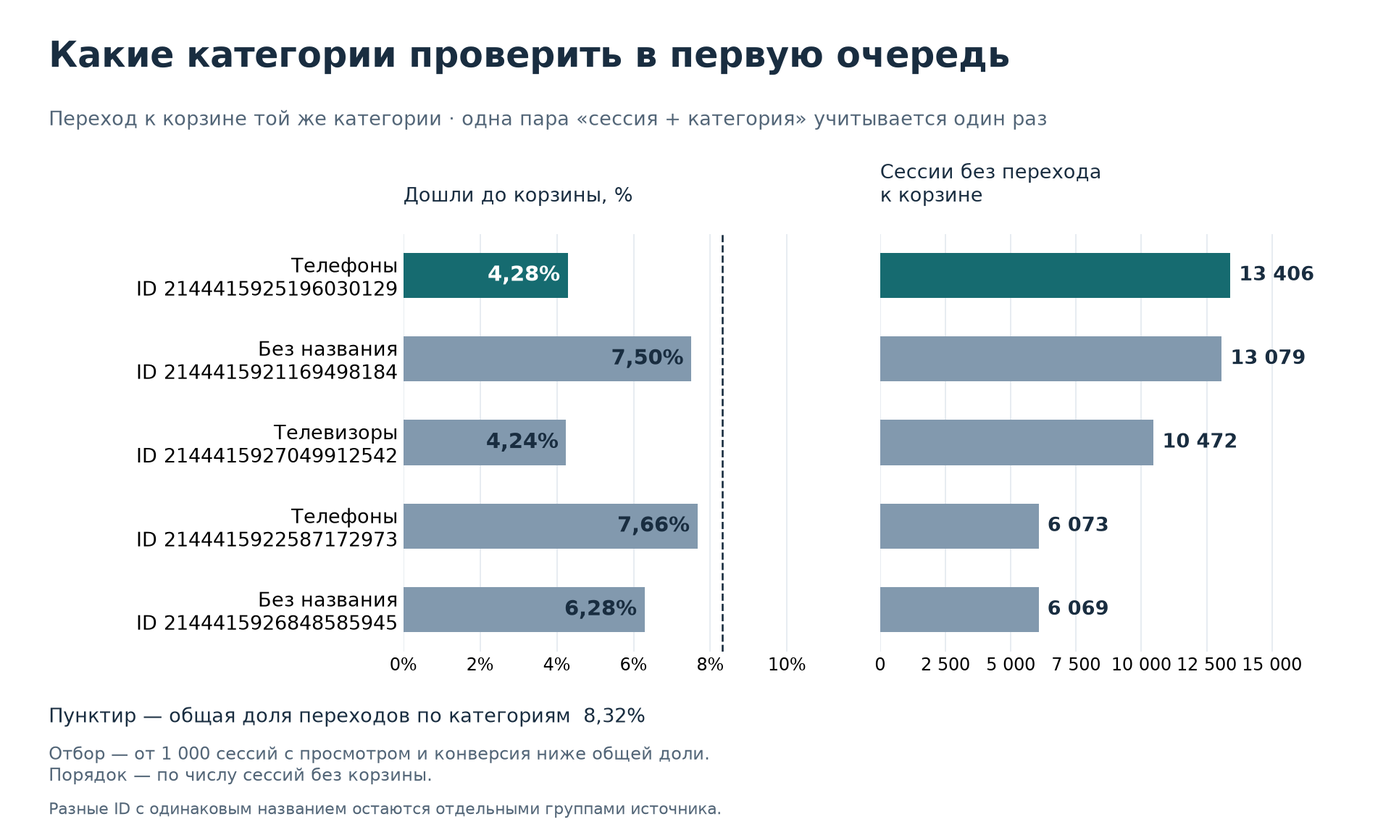
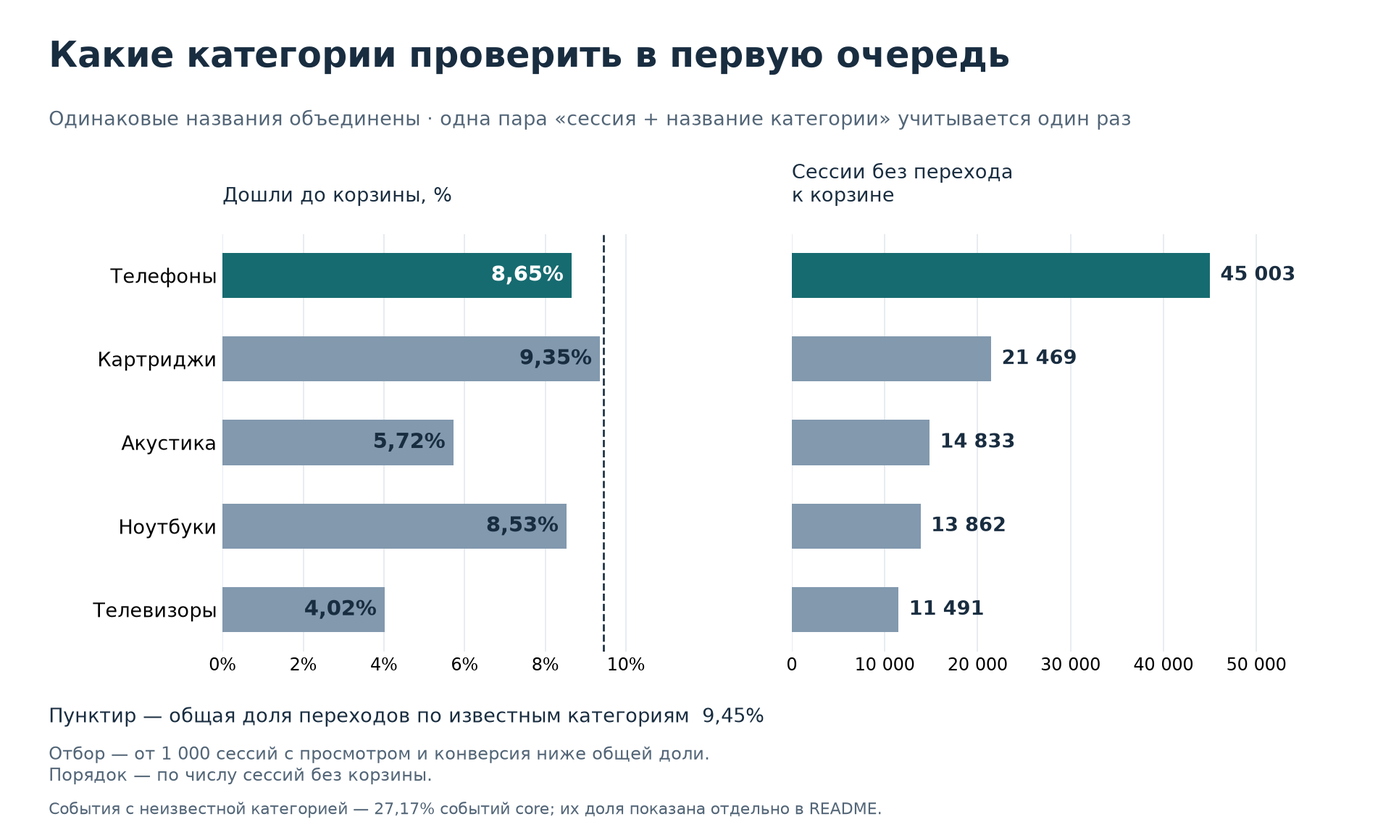
Compare named categories and report missing-name coverage

diff --git a/scripts/plot_results.py b/scripts/plot_results.py
@@ -66,7 +66,7 @@ def plot_funnel(summary):
     plt.close(fig)
 
 
-def plot_categories(categories):
+def plot_categories(categories, coverage):
     total_views = sum(row["view_sessions"] for row in categories)
     total_carts = sum(row["cart_sessions"] for row in categories)
     baseline = Decimal(total_carts) / Decimal(total_views) if total_views else Decimal(0)
@@ -75,7 +75,7 @@ def plot_categories(categories):
                   if row["view_sessions"] >= MIN_VIEW_SESSIONS
                   and row["cart_sessions"] * total_views
                   < total_carts * row["view_sessions"]]
-    candidates.sort(key=lambda row: (-row["sessions_without_cart"], row["category_id"]))
+    candidates.sort(key=lambda row: (-row["sessions_without_cart"], row["category_code"]))
     candidates = candidates[:5]
     if not candidates:
         raise ValueError("Нет категорий, соответствующих правилу отбора для графика")
@@ -83,9 +83,11 @@ def plot_categories(categories):
     names = {
         "electronics.telephone": "Телефоны",
         "electronics.video.tv": "Телевизоры",
+        "stationery.cartrige": "Картриджи",
+        "electronics.audio.acoustic": "Акустика",
+        "computers.notebook": "Ноутбуки",
     }
-    labels = [names.get(row["category_code"], row["category_code"] or "Без названия")
-              + f"\nID {row['category_id']}" for row in candidates]
+    labels = [names.get(row["category_code"], row["category_code"]) for row in candidates]
     rates = [float(row["view_to_cart_conversion"]) * 100 for row in candidates]
     counts = [row["sessions_without_cart"] for row in candidates]
     positions = list(range(len(candidates)))
@@ -94,9 +96,9 @@ def plot_categories(categories):
     fig, (rate_axis, count_axis) = plt.subplots(
         1, 2, figsize=(12, 7.2), sharey=True, gridspec_kw={"width_ratios": [1, 1.15]}
     )
-    fig.subplots_adjust(left=0.29, right=0.96, top=0.72, bottom=0.22, wspace=0.19)
+    fig.subplots_adjust(left=0.16, right=0.96, top=0.72, bottom=0.22, wspace=0.19)
     fig.text(0.035, 0.92, "Какие категории проверить в первую очередь", fontsize=22, weight="bold", color=TEXT)
-    fig.text(0.035, 0.85, "Переход к корзине той же категории · одна пара «сессия + категория» учитывается один раз",
+    fig.text(0.035, 0.85, "Одинаковые названия объединены · одна пара «сессия + название категории» учитывается один раз",
              fontsize=12, color=MUTED)
 
     rate_axis.barh(positions, rates, color=colors, height=0.54)
@@ -128,12 +130,14 @@ def plot_categories(categories):
                         format_count(counts[position]),
                         va="center", fontsize=12, weight="bold", color=TEXT)
 
-    fig.text(0.035, 0.135, "Пунктир — общая доля переходов по категориям  " + format_percent(baseline),
+    fig.text(0.035, 0.135, "Пунктир — общая доля переходов по известным категориям  " + format_percent(baseline),
              fontsize=12, color=TEXT)
     fig.text(0.035, 0.065,
              f"Отбор — от {format_count(MIN_VIEW_SESSIONS)} сессий с просмотром и конверсия ниже общей доли.\n"
              "Порядок — по числу сессий без корзины.", fontsize=11, color=MUTED)
-    fig.text(0.035, 0.025, "Разные ID с одинаковым названием остаются отдельными группами источника.",
+    fig.text(0.035, 0.025,
+             "События с неизвестной категорией — " + format_percent(coverage["unnamed_category_share"])
+             + " событий core; их доля показана отдельно в README.",
              fontsize=10, color=MUTED)
     fig.savefig(OUTPUT_DIR / "category-conversion.png", dpi=160, facecolor="white")
     plt.close(fig)
@@ -146,11 +150,13 @@ def create_charts(connection):
         summary = cursor.fetchone()
         cursor.execute("SELECT * FROM mart.category_conversion")
         categories = cursor.fetchall()
+        cursor.execute("SELECT * FROM mart.category_data_quality")
+        coverage = cursor.fetchone()
     if not summary or not summary["view_sessions"] or not categories:
         raise ValueError("Для графиков нужны заполненные витрины магазина и категорий")
     OUTPUT_DIR.mkdir(parents=True, exist_ok=True)
     plt.rcParams.update({"font.family": "DejaVu Sans", "text.color": TEXT})
-    plot_categories(categories)
+    plot_categories(categories, coverage)
     plot_funnel(summary)
 
 

diff --git a/README.md b/README.md
@@ -30,18 +30,20 @@
 
 ## Какие категории проверить первыми
 
-![Пять категорий для дальнейшей проверки. Слева конверсия в корзину, справа число сессий без перехода. Первая группа телефонов — 4,28% и 13 406 сессий без корзины.](docs/images/category-conversion.png)
+![Пять известных категорий для дальнейшей проверки. Телефоны — 8,65%, картриджи — 9,35%, акустика — 5,72%, ноутбуки — 8,53%, телевизоры — 4,02%.](docs/images/category-conversion.png)
 
-На графике показаны крупные группы с конверсией ниже общей доли переходов
-по категориям — **8,32%**. Выше расположены группы с большим числом сессий
-без последующей корзины.
+Сравниваются **107 категорий с заполненными названиями**. Все технические ID
+с одинаковым названием объединены. На графике показаны крупные категории
+с конверсией ниже общей доли переходов по известным категориям — **9,45%**.
+Выше расположены категории с большим числом сессий без последующей корзины.
 
-**Первый кандидат — группа телефонов с ID `2144415925196030129`.**
-Из **14 006** сессий с просмотром этой категории в **600** появилась
-последующая корзина той же категории. Конверсия — **4,28%**,
-сессий без такого перехода — **13 406**.
+**Первый кандидат по объёму сессий без корзины — телефоны.**
+Из **49 264** сессий с просмотром этой категории в **4 261** появилась
+последующая корзина той же категории. Конверсия — **8,65%**,
+сессий без такого перехода — **45 003**. Среди пяти показанных категорий
+самая низкая конверсия у телевизоров — **4,02%**, при 11 972 сессиях с просмотром.
 
-**Следующее действие команды — проверить состав товаров этой группы
+**Следующее действие команды — проверить состав категории телефонов
 и полноту регистрации событий корзины.** Затем можно проверять гипотезы
 о цене, наличии и карточках товаров. Для проверки наличия и состояния
 карточек понадобятся дополнительные данные.
@@ -50,40 +52,52 @@
 разница задаёт направление проверки. Чтобы установить её причины и оценить
 эффект изменений, нужны дополнительные данные и отдельное исследование.
 
+## Покрытие данных
+
+| Название категории в событии | События после отбора сессий | Доля |
+|---|---:|---:|
+| Заполнено | 587 072 | 72,83% |
+| Отсутствует | 219 006 | 27,17% |
+
+Сравнение категорий описывает события с заполненным названием.
+События с неизвестной категорией включены в общую воронку магазина.
+Для восстановления их названий нужен дополнительный справочник товаров
+или категорий. Проверка по другим событиям тех же товаров дала ноль
+восстановленных названий.
+
 <details>
 <summary>Точные значения, правило отбора и ограничения сравнения</summary>
 
 Полный расчёт повторён **2026-11-19** на 885 129 событиях за период
 с 2020-09-24 по 2021-02-28. После отбора сессий осталось 806 078 событий.
-В 715 категориях получилась 493 751 пара «сессия + категория» с просмотром.
-В 41 088 парах после просмотра появилась корзина этой категории — **8,32%**.
+В 107 известных категориях получилось 344 777 пар «сессия + название категории»
+с просмотром. В 32 571 паре после просмотра появилась корзина этой категории — **9,45%**.
 
 Для списка кандидатов выбраны категории с **не менее 1000 сессий
-с просмотром** и конверсией **ниже 8,32%**. Они отсортированы по числу сессий
+с просмотром** и конверсией **ниже 9,45%**. Они отсортированы по числу сессий
 без последующей корзины. Порог 1000 — выбранный ориентир для рассмотрения
 крупных групп; статистическая проверка различий остаётся отдельной задачей.
 
-| Категория из источника | category_id | Сессии с просмотром | Дошли до корзины | Без перехода к корзине | Конверсия |
-|---|---|---:|---:|---:|---:|
-| `electronics.telephone` | `2144415925196030129` | 14 006 | 600 | 13 406 | 4,28% |
-| Название отсутствует | `2144415921169498184` | 14 140 | 1 061 | 13 079 | 7,50% |
-| `electronics.video.tv` | `2144415927049912542` | 10 936 | 464 | 10 472 | 4,24% |
-| `electronics.telephone` | `2144415922587172973` | 6 577 | 504 | 6 073 | 7,66% |
-| Название отсутствует | `2144415926848585945` | 6 476 | 407 | 6 069 | 6,28% |
-
-Категория видеокарт `2144415922427789416` даёт больше всего сессий без корзины
-в абсолютных числах — 33 950. При этом её конверсия составляет 20,31%.
-Поэтому при выборе направления анализа учитываются и объём, и доля переходов.
+| Категория | Сессии с просмотром | Дошли до корзины | Без перехода к корзине | Конверсия |
+|---|---:|---:|---:|---:|
+| Телефоны | 49 264 | 4 261 | 45 003 | 8,65% |
+| Картриджи | 23 684 | 2 215 | 21 469 | 9,35% |
+| Акустика | 15 733 | 900 | 14 833 | 5,72% |
+| Ноутбуки | 15 154 | 1 292 | 13 862 | 8,53% |
+| Телевизоры | 11 972 | 481 | 11 491 | 4,02% |
 
 ### Как считается переход по категории
 
-- Единица расчёта — пара `session_id + category_id` с хотя бы одним просмотром.
+- Единица расчёта — пара `session_id + category_code` с хотя бы одним просмотром.
 - Берётся первый просмотр и первая корзина **строго позже** этого просмотра
   в той же сессии и той же категории. Товары могут различаться.
 - Повторные просмотры и корзины одной категории дают одну пару и один переход.
 - Сессия, в которой просматривали две категории, участвует в обеих категориях.
-- Группировка выполняется по `category_id`. В источнике разные ID иногда имеют
-  одинаковое название. Группы без названия также сохраняются.
+- Группировка выполняется по заполненному `category_code`, например
+  `electronics.telephone`. Разные `category_id` с одинаковым названием
+  объединяются внутри сессии. Пробелы по краям названия удаляются.
+- У события корзины тоже должно быть заполнено название той же категории.
+  При отсутствии названия связь по категории установить невозможно.
 
 | Наблюдаемые события одной сессии | Результат |
 |---|---|
@@ -93,15 +107,14 @@
 | Просмотр A и корзина A в одно время | Переход отсутствует, нужна корзина с более поздним временем |
 
 Воронка магазина ниже считает каждую сессию один раз и даёт 8,05% переходов
-от просмотра к корзине. Расчёт по категориям даёт 8,32% по парам
-«сессия + категория». Различаются единица расчёта и требование совпадения
-категории, поэтому складывать показатели категорий для получения числа
-уникальных сессий магазина нельзя.
+от просмотра к корзине. Расчёт по известным категориям даёт 9,45% по парам
+«сессия + название категории». Различаются единица расчёта, покрытие данных
+и требование совпадения категории, поэтому складывать показатели категорий
+для получения числа уникальных сессий магазина нельзя.
 
-У 435 из 715 категорий отсутствует название. На них приходится 147 726 пар
-с просмотром — 29,92% всех пар. Для их предметного анализа потребуется
-расшифровка ID из каталога. Результаты относятся к наблюдаемым событиям
-отобранных сессий за указанный исторический период.
+Результаты относятся к наблюдаемым событиям отобранных сессий за указанный
+исторический период. Доля 27,17% относится ко всем событиям core;
+доли переходов рассчитываются по парам сессия + название категории.
 
 </details>
 
@@ -127,6 +140,8 @@
     core.users / products / sessions / events
         ├─ SQL → mart.session_funnel → mart.funnel_summary
         └─ SQL → mart.session_category_funnel → mart.category_conversion
+
+    core.events → mart.category_data_quality
 
 - raw — исходные события с приведёнными типами данных,
   именем файла и временем загрузки.
@@ -309,7 +324,11 @@ localhost:5433, база и учётные данные — из .env.
 
     SELECT *
     FROM mart.category_conversion
-    ORDER BY sessions_without_cart DESC, category_id;
+    ORDER BY sessions_without_cart DESC, category_code;
+
+Покрытие названиями категорий доступно запросом:
+
+    SELECT * FROM mart.category_data_quality;
 
 В конце `06_category_conversion.sql` находятся запросы для десяти крупнейших
 групп по числу сессий без корзины и для пяти кандидатов из таблицы выше.
@@ -321,7 +340,8 @@ localhost:5433, база и учётные данные — из .env.
     .\.venv\Scripts\python.exe scripts/plot_results.py
 
 Скрипт использует настройки `.env`, читает витрины `mart.funnel_summary`
-и `mart.category_conversion` и сохраняет два PNG в `docs/images/`.
+и `mart.category_conversion`, получает покрытие из `mart.category_data_quality`
+и сохраняет два PNG в `docs/images/`.
 При обновлении данных повторите расчёт витрин и эту команду.
 
 ## Проверки
@@ -341,14 +361,16 @@ localhost:5433, база и учётные данные — из .env.
 
 `07_check_category_conversion.sql` проверяет полноту и уникальность пар
 «сессия + категория», время первого просмотра и подходящей корзины,
-порядок действий, согласованность счётчиков и однозначность названий категорий.
+порядок действий, согласованность счётчиков, заполненность названий
+и покрытие исходных событий.
 Ожидаемые времена дополнительно рассчитываются оконной функцией по событиям.
 На полном файле все счётчики несоответствий дали 0.
 
-Перед полным расчётом на примере из 19 событий проверены восемь сценариев,
-включая корзину другой категории, повторы, корзину до просмотра и равные времена.
+Перед полным расчётом на примере из 23 событий проверены десять сценариев,
+включая объединение разных ID по одному названию, корзину другой категории,
+повторы, корзину до просмотра, равные времена и пропущенные названия.
 Независимый подсчёт исходного CSV подтвердил количество просмотровых пар
-и переходов к корзине во всех 715 категориях.
+и переходов к корзине во всех 107 известных категориях.
 
 ## Повторный запуск
 
